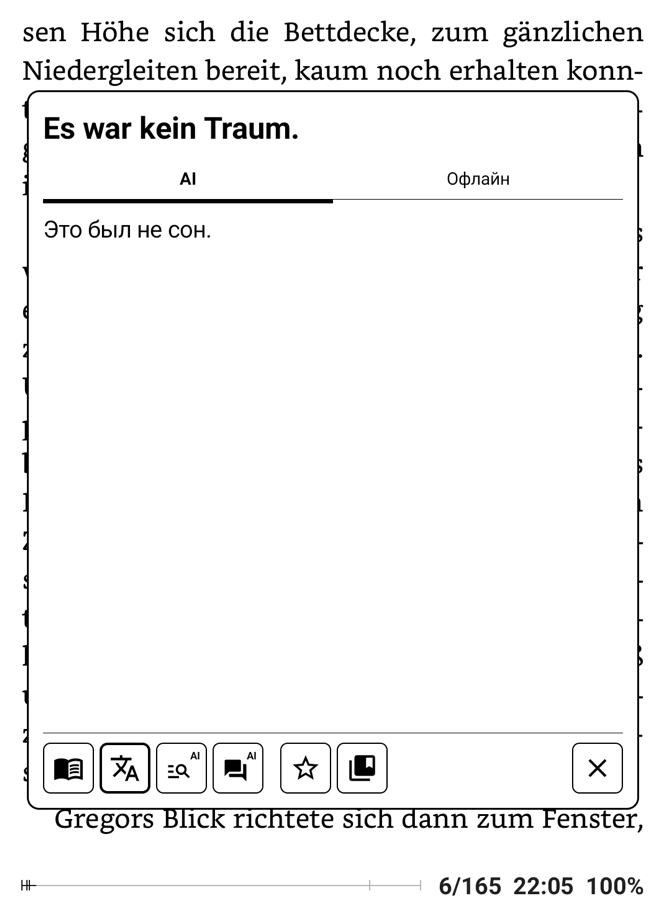
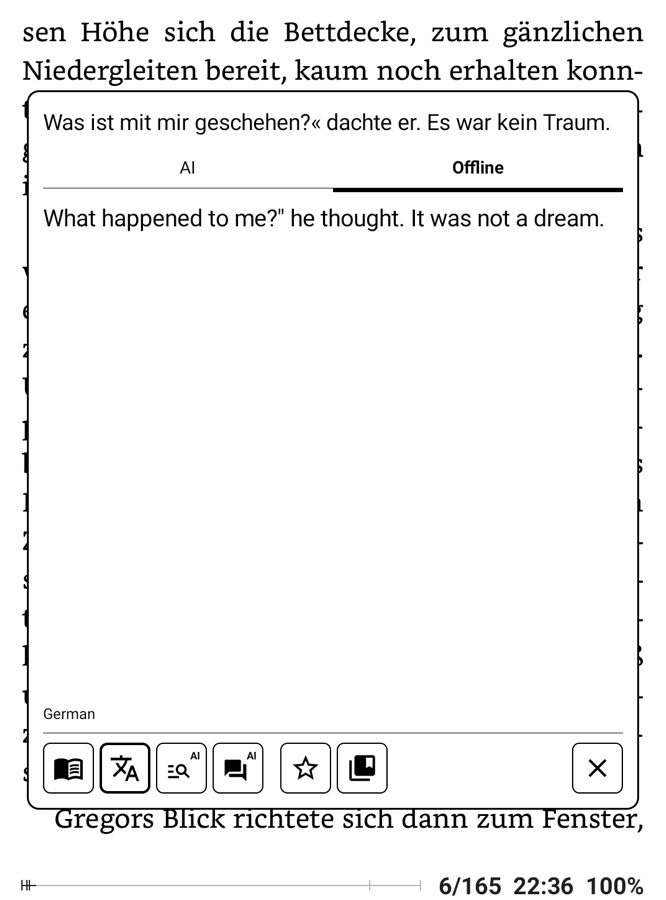
README: screenshots in English (German → English) over Kafka

Changed region(s): [[0.0601, 0.1244, 0.9309, 0.28], [0.0601, 0.7778, 0.1502, 0.8089], [0.8108, 0.9644, 0.8709, 0.9956]]

diff --git a/README.md b/README.md
@@ -41,8 +41,8 @@ translation. ☆ keeps a word or phrase in My words; the history keeps the rest.
 </tr>
 </table>
 
-<p align="center"><sub>Onyx Boox Go 6, FBReader, Franz Kafka «Die Verwandlung» (public domain). The app here is in
-Russian, so are the answers: they come in the app's language.</sub></p>
+<p align="center"><sub>Onyx Boox Go 6, FBReader, Franz Kafka «Die Verwandlung» (public domain), German → English.
+Answers come in the app's language.</sub></p>
 
 ## Quick start
 1. **Install** the APK from [Releases](https://github.com/kafeg/inkpeek/releases) and open InkPeek. Allow access to
